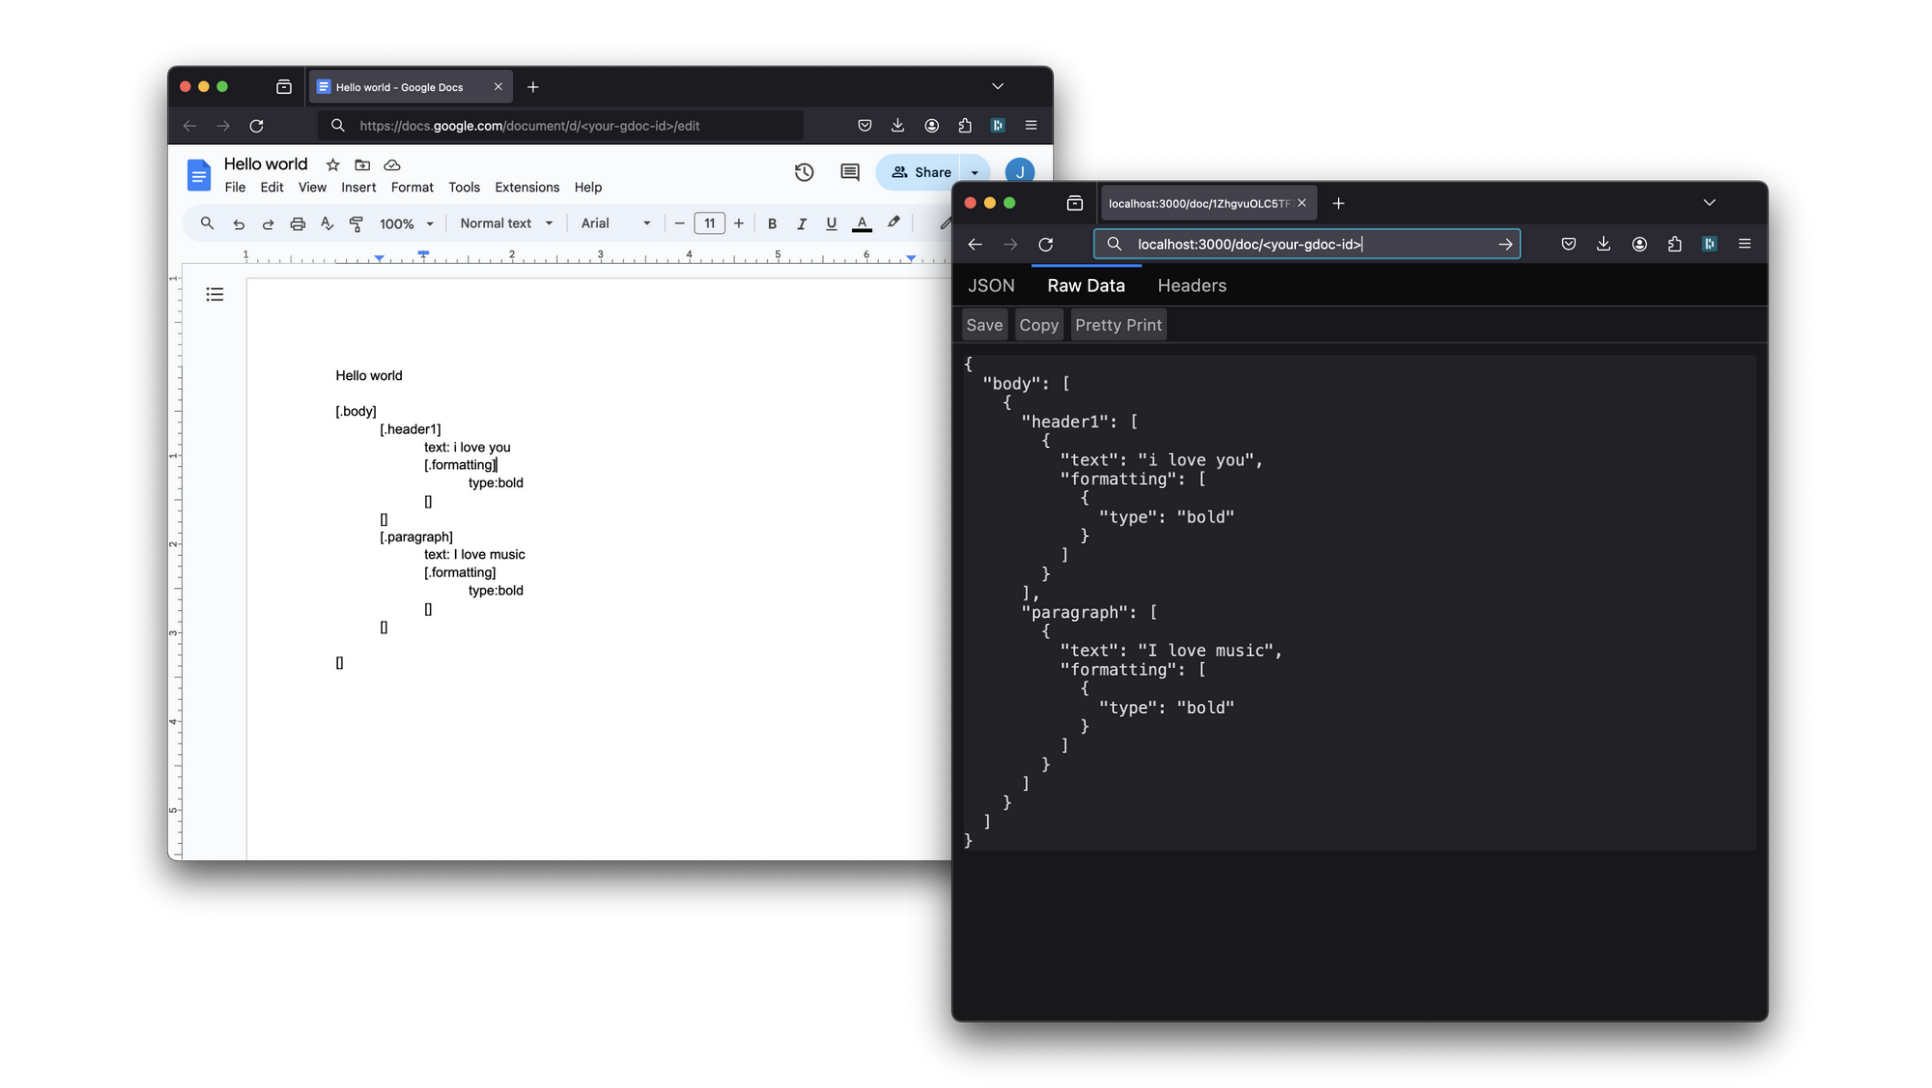
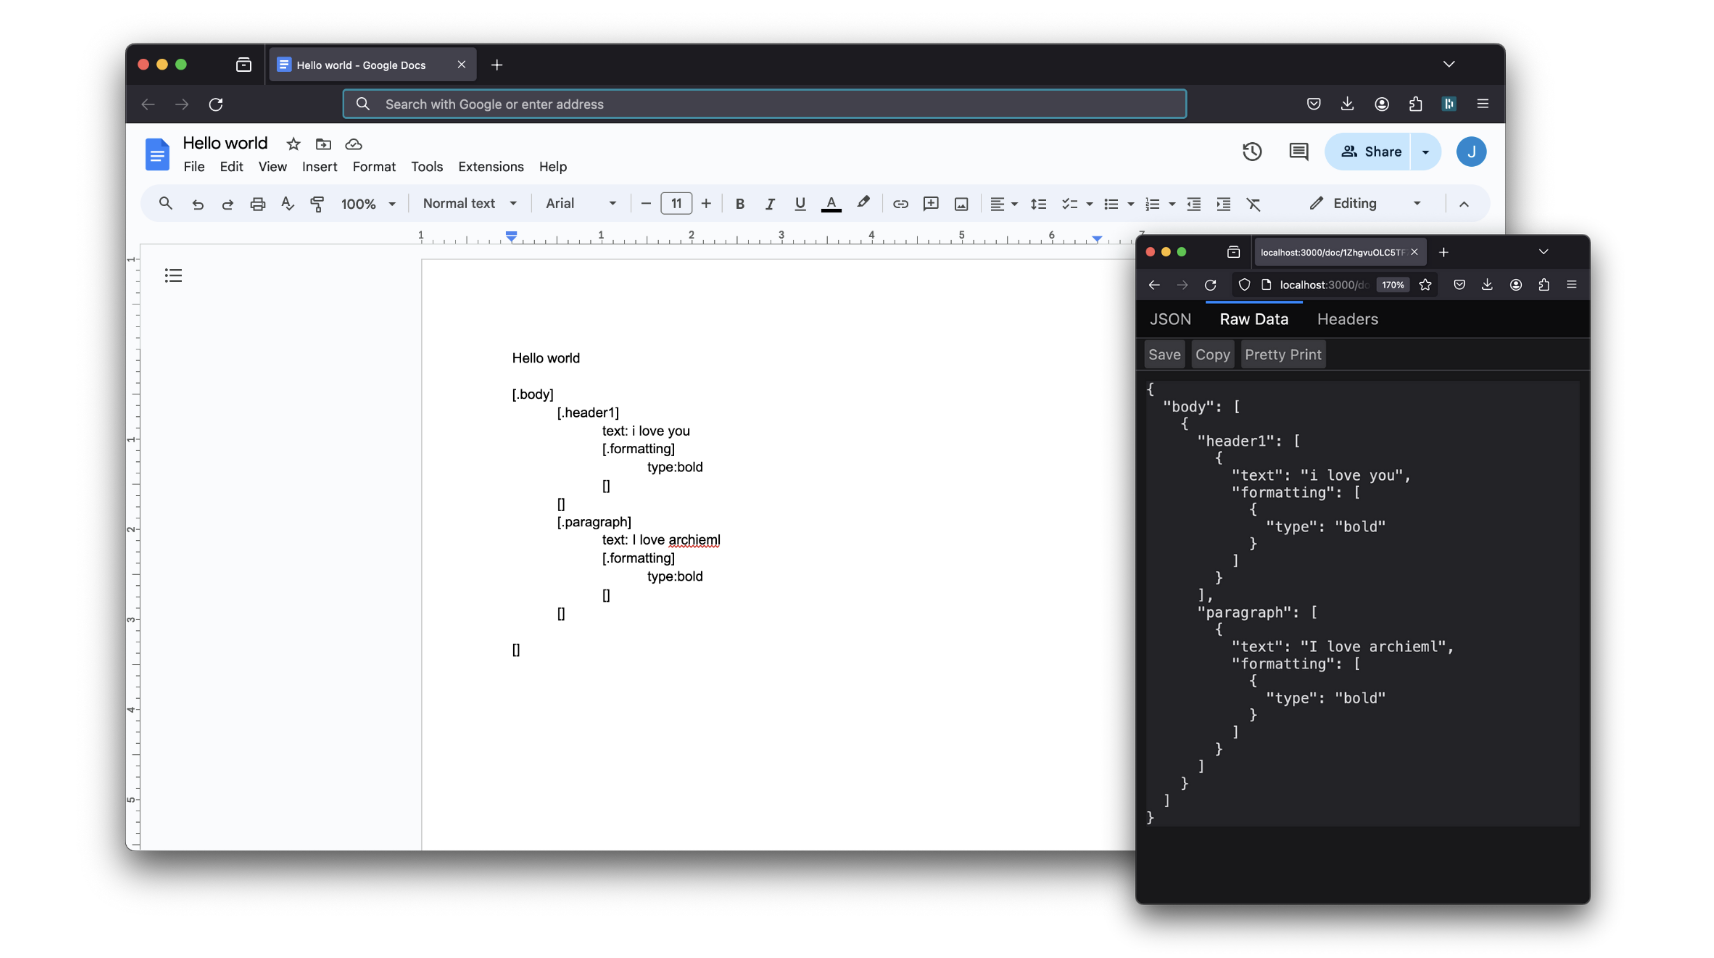
update images and fixture

diff --git a/__fixtures__/helloWorld.js b/__fixtures__/helloWorld.js
@@ -9,7 +9,7 @@ type:bold
 []
 []
 [.paragraph]
-text: I love music
+text: I love archieml
 [.formatting]
 type:bold
 []
@@ -23,7 +23,7 @@ export const parsedArchiemlDoc = {
   body: [
     {
       header1: [{ text: "i love you", formatting: [{ type: "bold" }] }],
-      paragraph: [{ text: "I love music", formatting: [{ type: "bold" }] }],
+      paragraph: [{ text: "I love archieml", formatting: [{ type: "bold" }] }],
     },
   ],
 };
